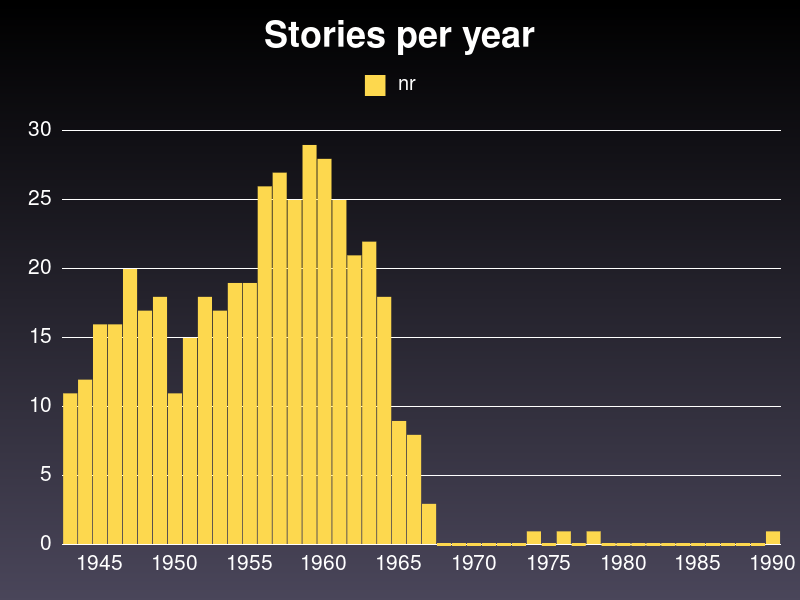
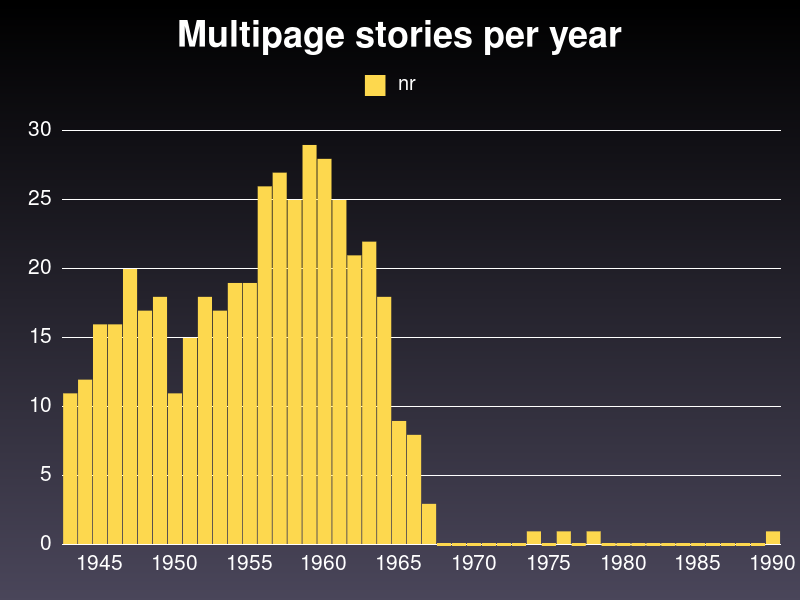
Minor adjustment of barks graph

Changed region(s): [[0.2188, 0.03, 0.7812, 0.09]]

diff --git a/Software/parse_wb.rb b/Software/parse_wb.rb
@@ -61,10 +61,9 @@ def plot_counts(stories, min_nr_pages = 2)
 
   g = Gruff::Bar.new(PlotSize)
   g.y_axis_increment = 5
-  g.title = "Stories per year"
+  g.title = "Multipage stories per year"
   g.labels = labels
   g.data(:nr, heights)
-  puts heights.inspect
   g.write(PlotName)
 end
 
